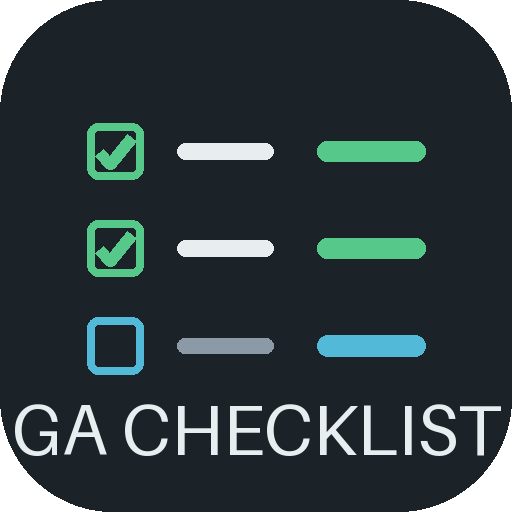
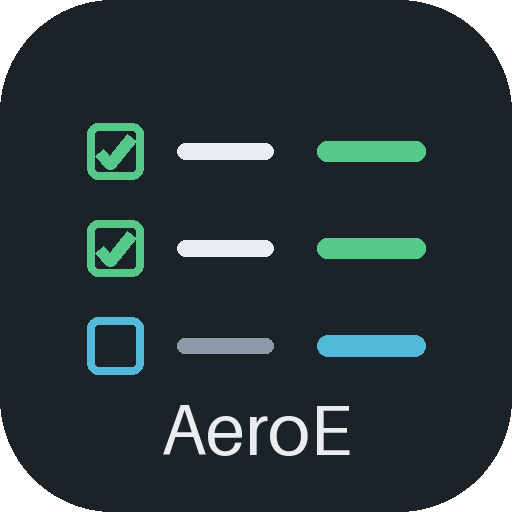
Rebrand as AeroE Checklist
Claude-Session: https://claude.ai/code/session_01QX72dTNhDviJbHcz5FyFGT

Changed region(s): [[0.0312, 0.7812, 0.9688, 0.9062]]

diff --git a/index.html b/index.html
@@ -3,14 +3,14 @@
 <head>
 <meta charset="utf-8">
 <meta name="viewport" content="width=device-width, initial-scale=1, viewport-fit=cover">
-<title>GA Checklist</title>
+<title>AeroE Checklist</title>
 <meta name="description" content="Tap-to-tick normal, abnormal and emergency checklists for common general aviation aircraft. Works offline.">
 <meta name="theme-color" content="#1b2329" media="(prefers-color-scheme: dark)">
 <meta name="theme-color" content="#ffffff" media="(prefers-color-scheme: light)">
 <meta name="mobile-web-app-capable" content="yes">
 <meta name="apple-mobile-web-app-capable" content="yes">
 <meta name="apple-mobile-web-app-status-bar-style" content="black-translucent">
-<meta name="apple-mobile-web-app-title" content="GA Checklist">
+<meta name="apple-mobile-web-app-title" content="AeroE">
 <link rel="manifest" href="manifest.webmanifest">
 <link rel="icon" type="image/png" sizes="192x192" href="icons/icon-192.png">
 <link rel="apple-touch-icon" href="icons/apple-touch-icon.png">
@@ -370,7 +370,7 @@ function render(){
     brand.append(h("span",{class:"ac"},h("span",{},a.short),h("span",{class:"chev"},"▼")),h("small",{},a.maker+" "+a.model));
     brand.onclick=()=>go(showPicker);
   }else{
-    brand.append(h("span",{class:"title"},"GA Checklist"),h("small",{},AIRCRAFT.length+" aircraft · tap one to begin"));
+    brand.append(h("span",{class:"title"},"AeroE Checklist"),h("small",{},AIRCRAFT.length+" aircraft · tap one to begin"));
     brand.onclick=null;
   }
   const nav=$("#modes");nav.innerHTML="";

diff --git a/sw.js b/sw.js
@@ -1,4 +1,4 @@
-const VERSION = "ga-ecl-9d749ea772";
+const VERSION = "ga-ecl-3bd84fe69d";
 const ASSETS = [
   "./",
   "./index.html",

diff --git a/README.md b/README.md
@@ -1,4 +1,4 @@
-# GA Electronic Checklist (offline PWA)
+# AeroE Checklist (offline PWA)
 
 Tap-to-tick normal, abnormal and emergency checklists for common general aviation aircraft.
 Pick an aircraft, work through the flight, and the app keeps progress per type on the device.
